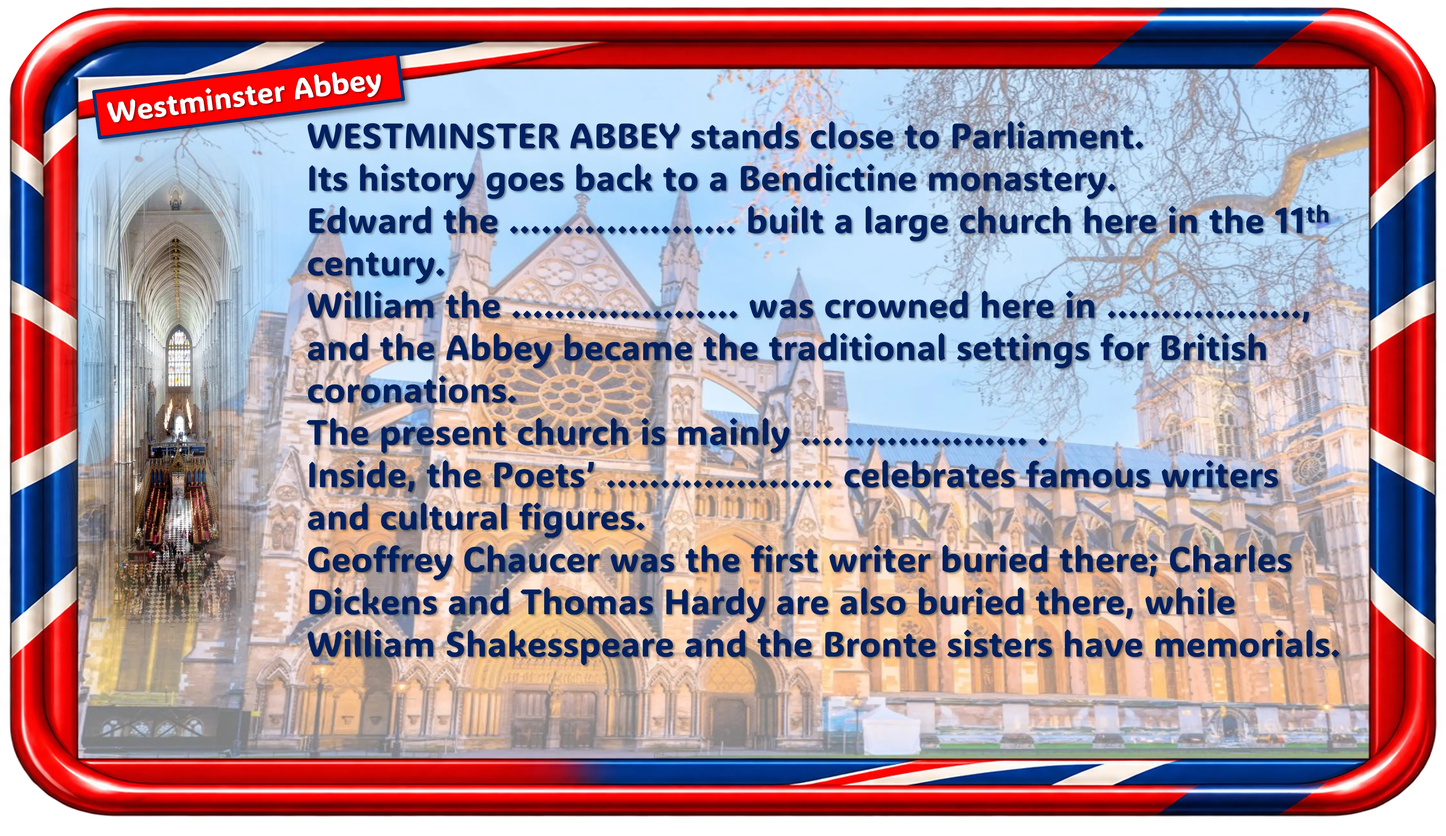
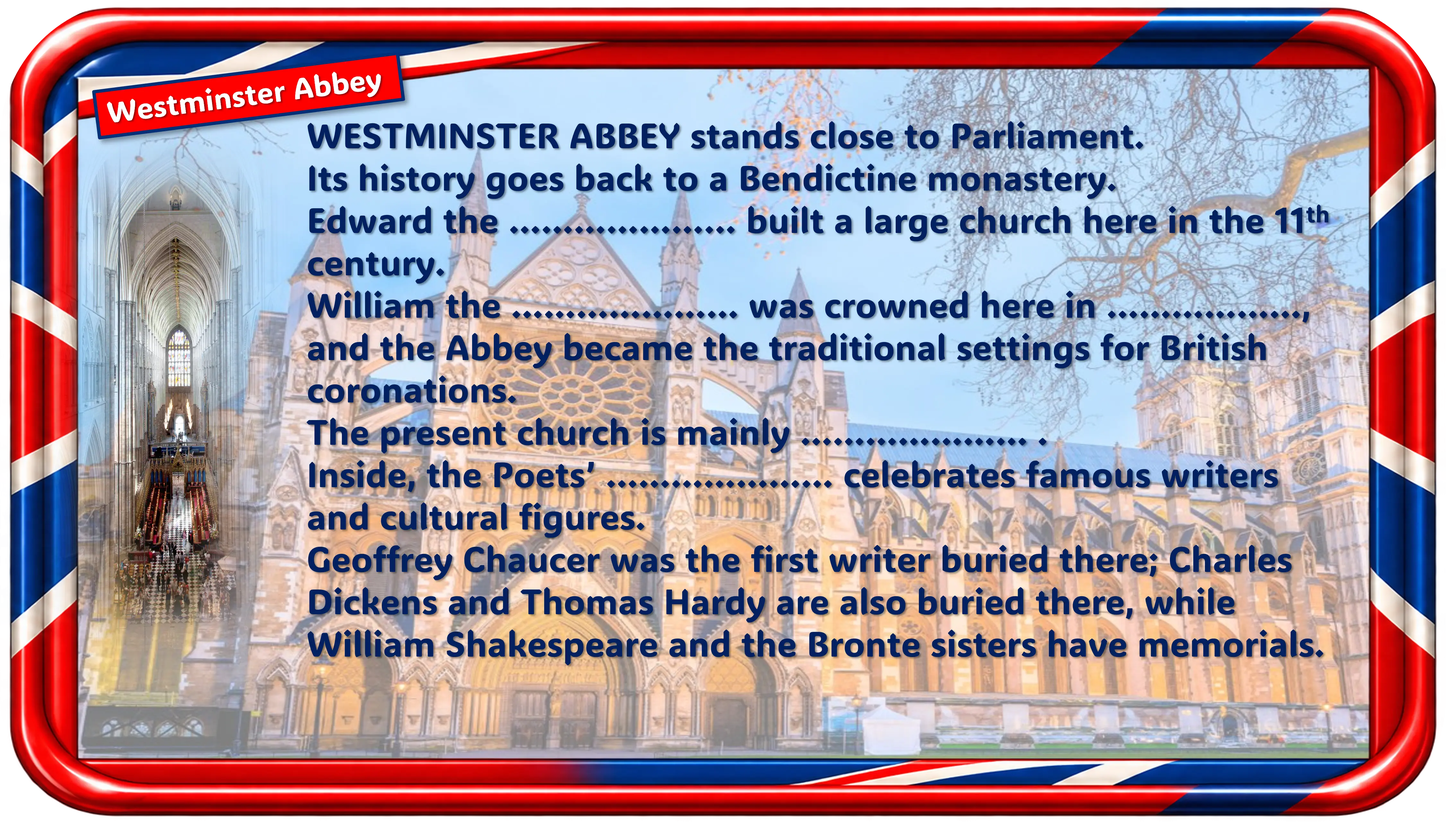
Aggiornamento London

Changed region(s): [[0.373, 0.7463, 0.9325, 0.8084]]

diff --git a/js/UI.js b/js/UI.js
@@ -12,13 +12,15 @@ const UI = {
         messageTimer=null,
         lastStatus= "",
 
-        this.status = document.getElementById("statusMessage");   
         this.status = document.getElementById("statusMessage");
         this.btnMenu = document.getElementById("btnMenu");
         this.menuPanel = document.getElementById("menuPanel");
         this.btnFullscreen = document.getElementById("btnFullscreen");
         this.btnTimer = document.getElementById("btnTimer");
         this.btnDice = document.getElementById("btnDice");
+        this.btnConfig = document.getElementById("btnConfig");
+        this.btnNumbers = document.getElementById("btnNumbers");
+        this.btnExport = document.getElementById("btnExport");        
         this.dicePanel = document.getElementById("dicePanel");
         this.diceResult = document.getElementById("diceResult");
         this.btnDiceClose = document.getElementById("btnDiceClose");        
@@ -40,9 +42,32 @@ const UI = {
         this.timerRemaining = 0;
         this.timerInitial = 0;
         
+        //==============================
+        // VISIBILITÀ MENU
+        //==============================
+
+        if (!Config.MENU.TIMER ) {
+            this.btnTimer.style.display = "none";
+        }
+        if (!Config.MENU.FULLVIDEO ) {
+            this.btnFullscreen.style.display = "none";
+        }
+        if (!Config.MENU.DADO ) {
+            this.btnDice.style.display = "none";
+        }
+        if (!Config.MENU.CONF_CASELLE ) {
+            this.btnConfig.style.display = "none";
+        }
+
+        if (!Config.MENU.VEDI_NUMERI) {
+            this.btnNumbers.style.display = "none";
+        }
+        if (!Config.MENU.EXP_JSON ) {
+            this.btnExport.style.display = "none";
+        }
+
         this.events();
         Game.log("UI inizializzata");
-
     },
 
     events() {

diff --git a/js/Config.js b/js/Config.js
@@ -7,6 +7,18 @@
 
 const Config = {
 
+    // VOCI MENU
+    MENU: {
+        CONF_CASELLE: false,
+        VEDI_NUMERI: false,
+        EXP_JSON: false,
+        NUOVA_PARTITA: true,
+        TIMER: true,
+        DADO: true,        
+        FULLVIDEO: true
+    },
+
+
     // Numero Massimo di Giocatori (0 no gioco)
     MAX_PLAYERS:0,
 

diff --git a/index.html b/index.html
@@ -218,7 +218,7 @@
             <button id="btnDice">
                 🎲 Dado
             </button>
-            <hr>
+            <hr><br>
 
             <button id="btnFullscreen">
                 Schermo Intero
